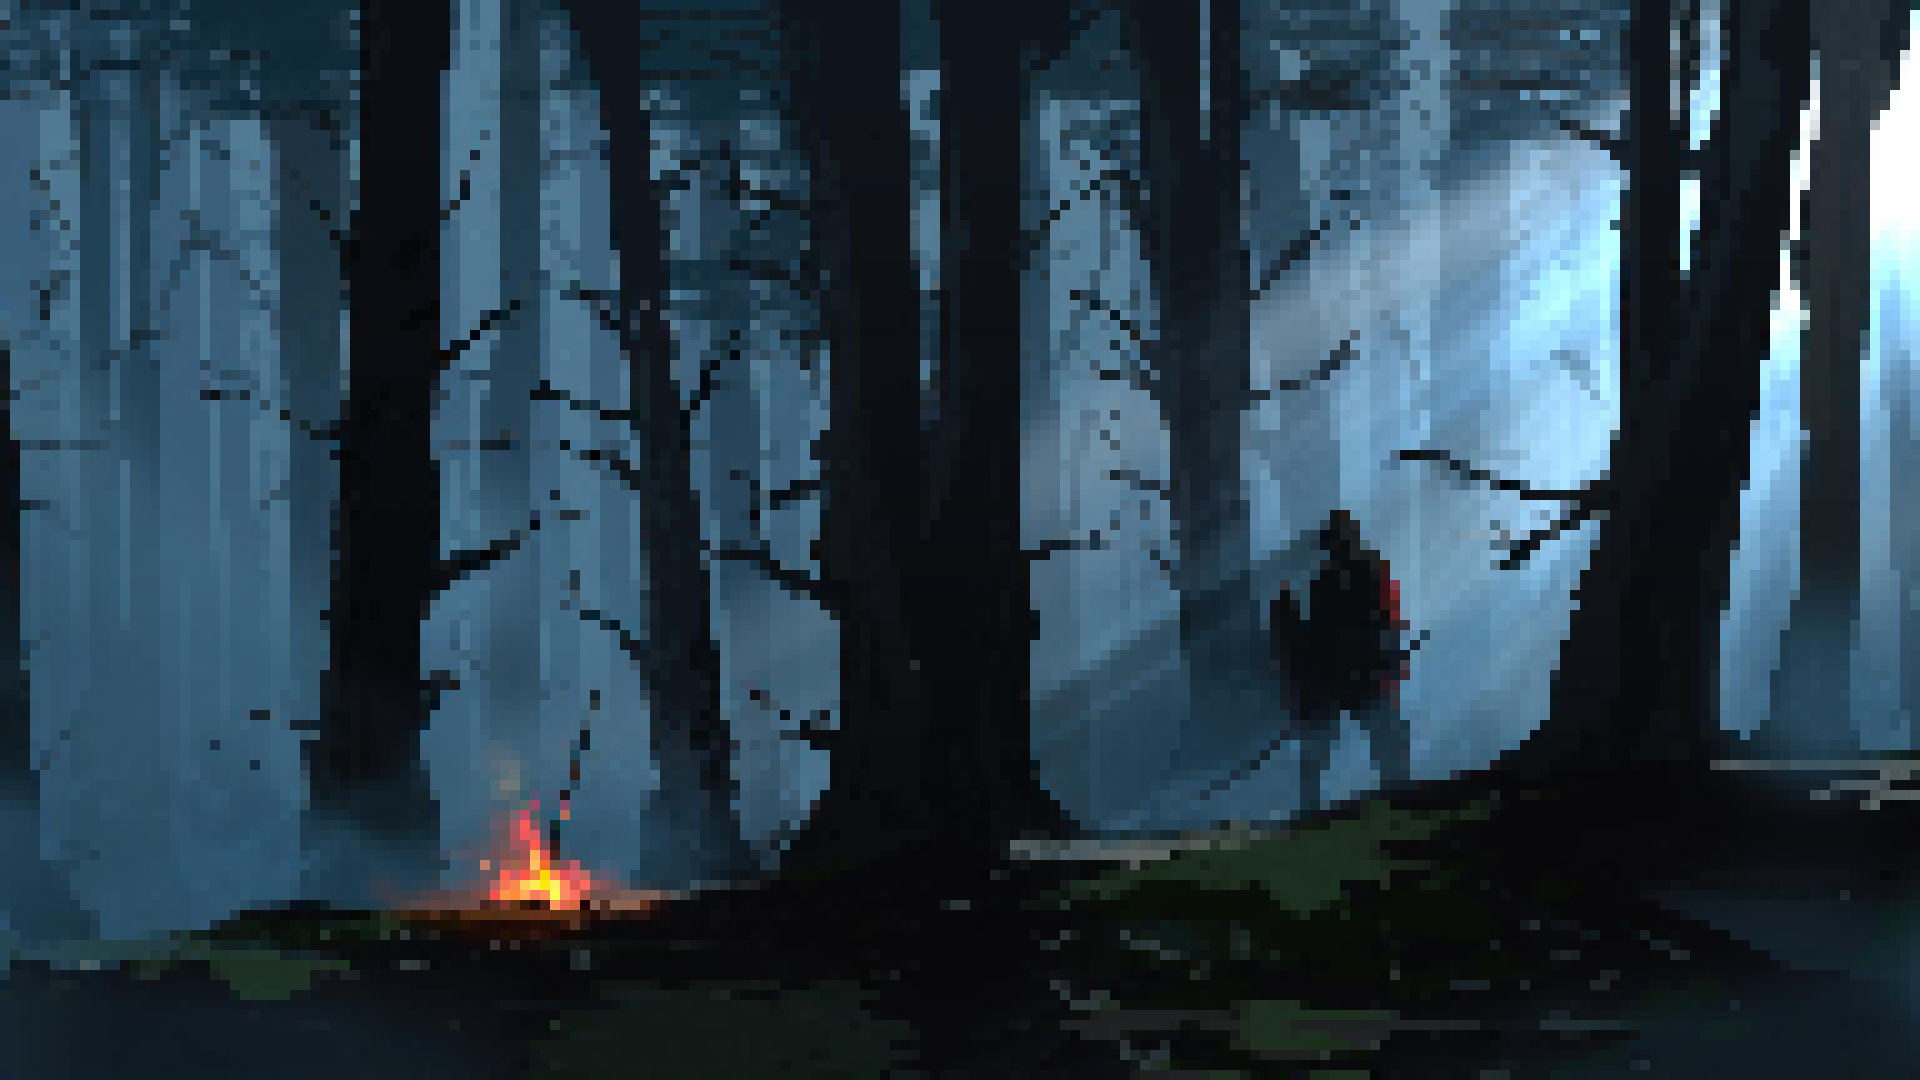
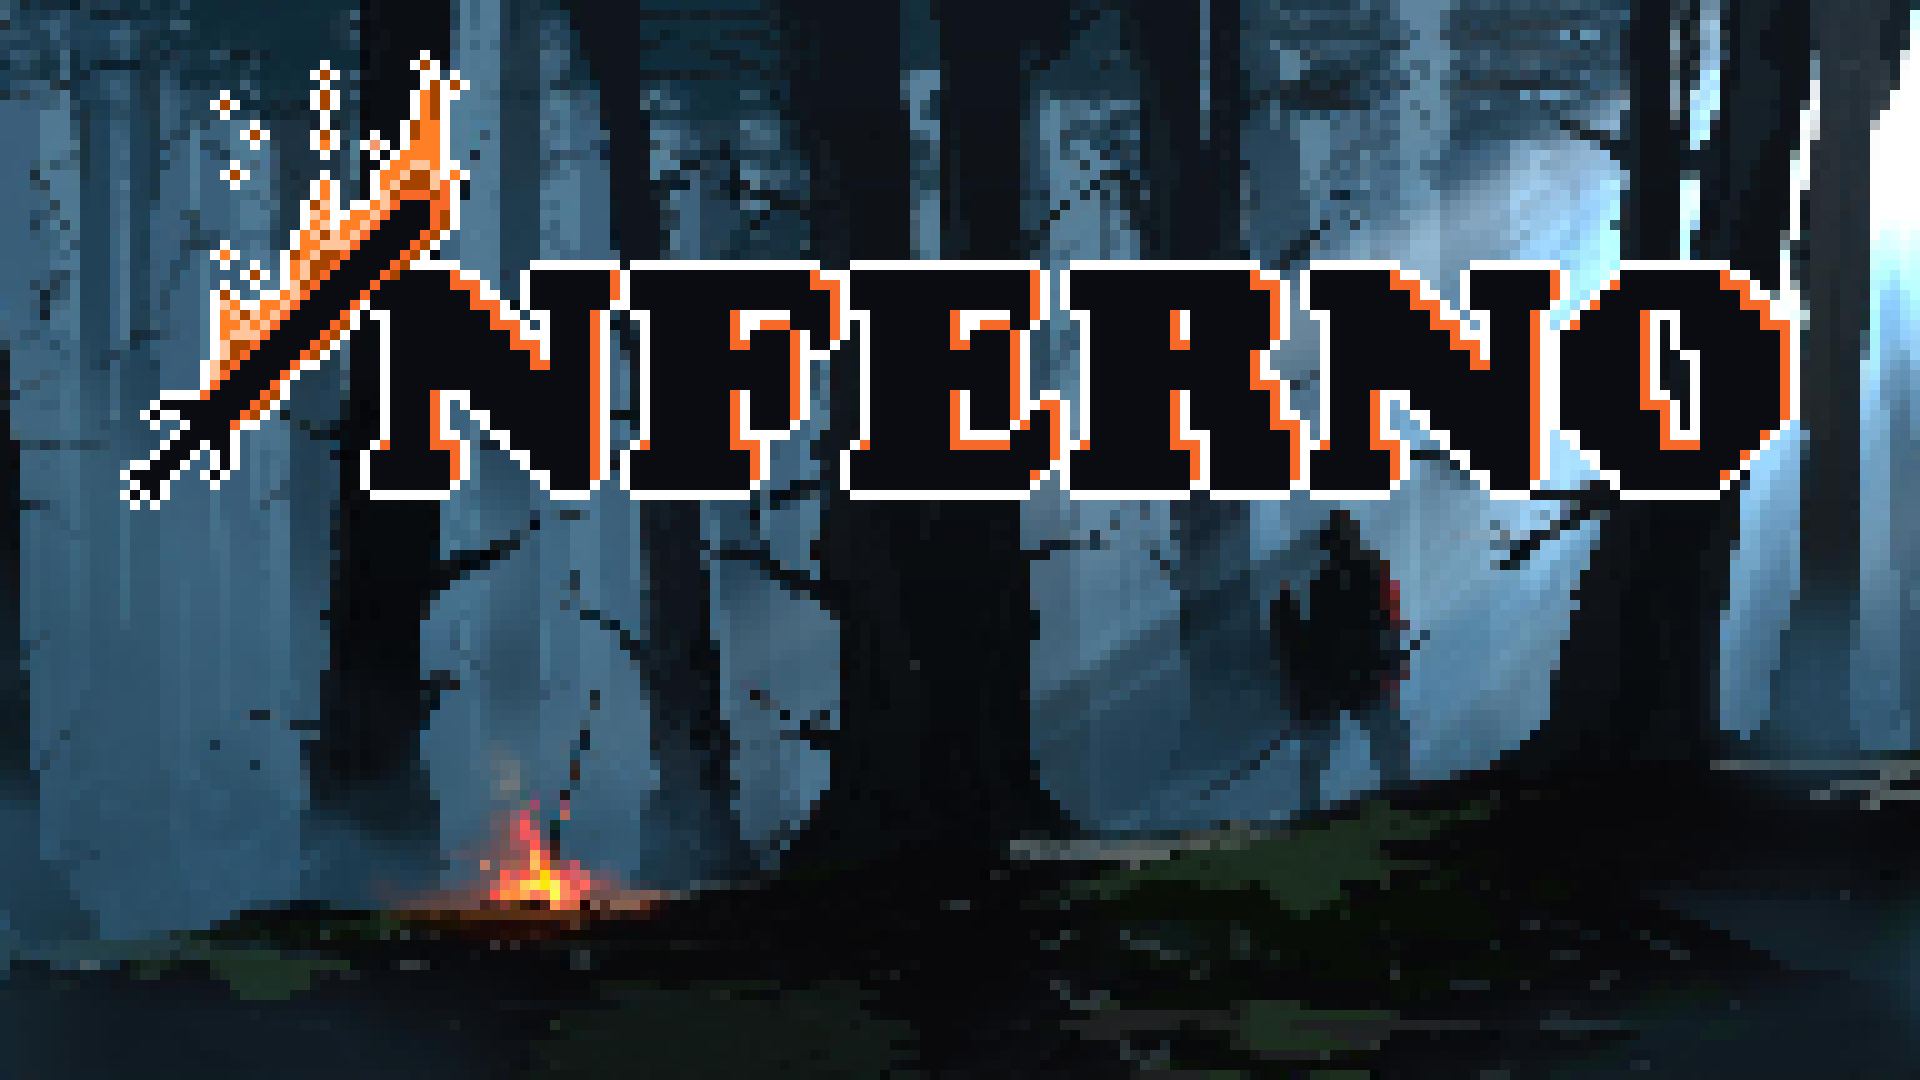
Tillagda sprites och kod för startskärm

Changed region(s): [[0.0625, 0.0306, 0.9375, 0.4889], [0.0938, 0.1528, 0.125, 0.1833], [0.0938, 0.0917, 0.125, 0.1222]]

diff --git a/RogueLike/Menu.cs b/RogueLike/Menu.cs
@@ -29,7 +29,7 @@ namespace RogueLike
 
 
         static Texture2D swap;
-        static Color currentFade;
+        public static Color currentFade;
         public static bool fadeIn;
         public static bool fadeOut;
         public static int f = 250;
@@ -57,10 +57,10 @@ namespace RogueLike
                     switch (menuState)
                     {
                         case MenuState.MainMenuScreen:
-                            buttons.Add(new Button(start, new Rectangle(100, 100, 100, 100), "startButton"));
+                            buttons.Add(new Button(start, new Rectangle(625, 600, 600, 140), "startButton"));
                             break;
                         case MenuState.PlayScreen:
-                            buttons.Add(new Button(start, new Rectangle(300, 300, 100, 100), "playButton"));
+                            buttons.Add(new Button(start, new Rectangle(300, 300, 600, 140), "playButton"));
                             break;
                     }
 

diff --git a/RogueLike/Button.cs b/RogueLike/Button.cs
@@ -47,7 +47,7 @@ namespace RogueLike
 
         public void Draw(SpriteBatch spriteBatch)
         {
-            spriteBatch.Draw(tex, pos, Color.White);
+            spriteBatch.Draw(tex, pos, Menu.currentFade);
         }
     }
 }
